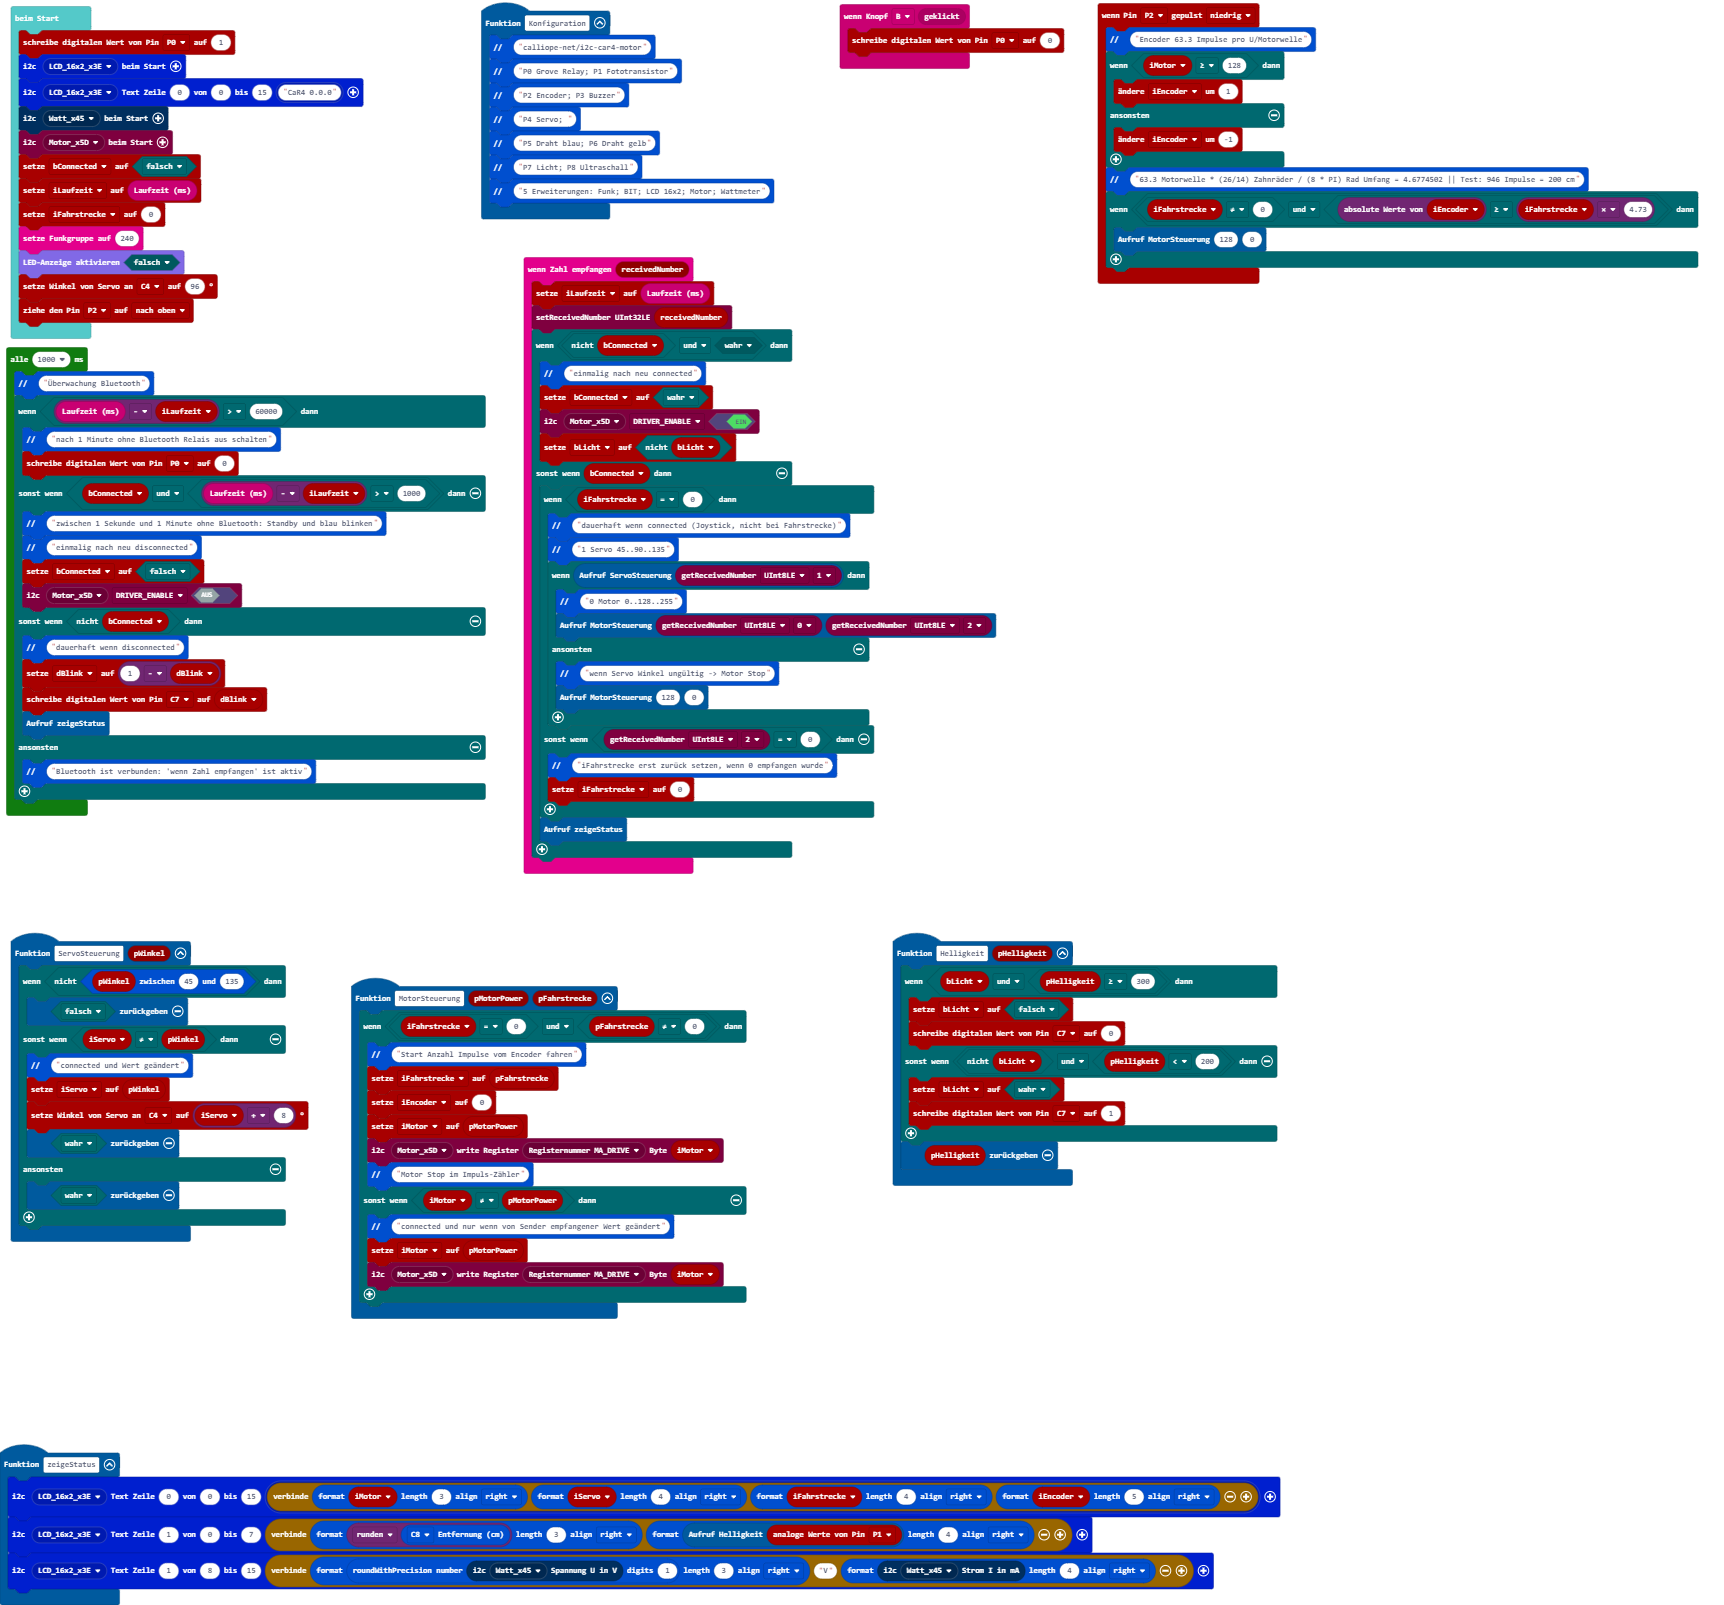
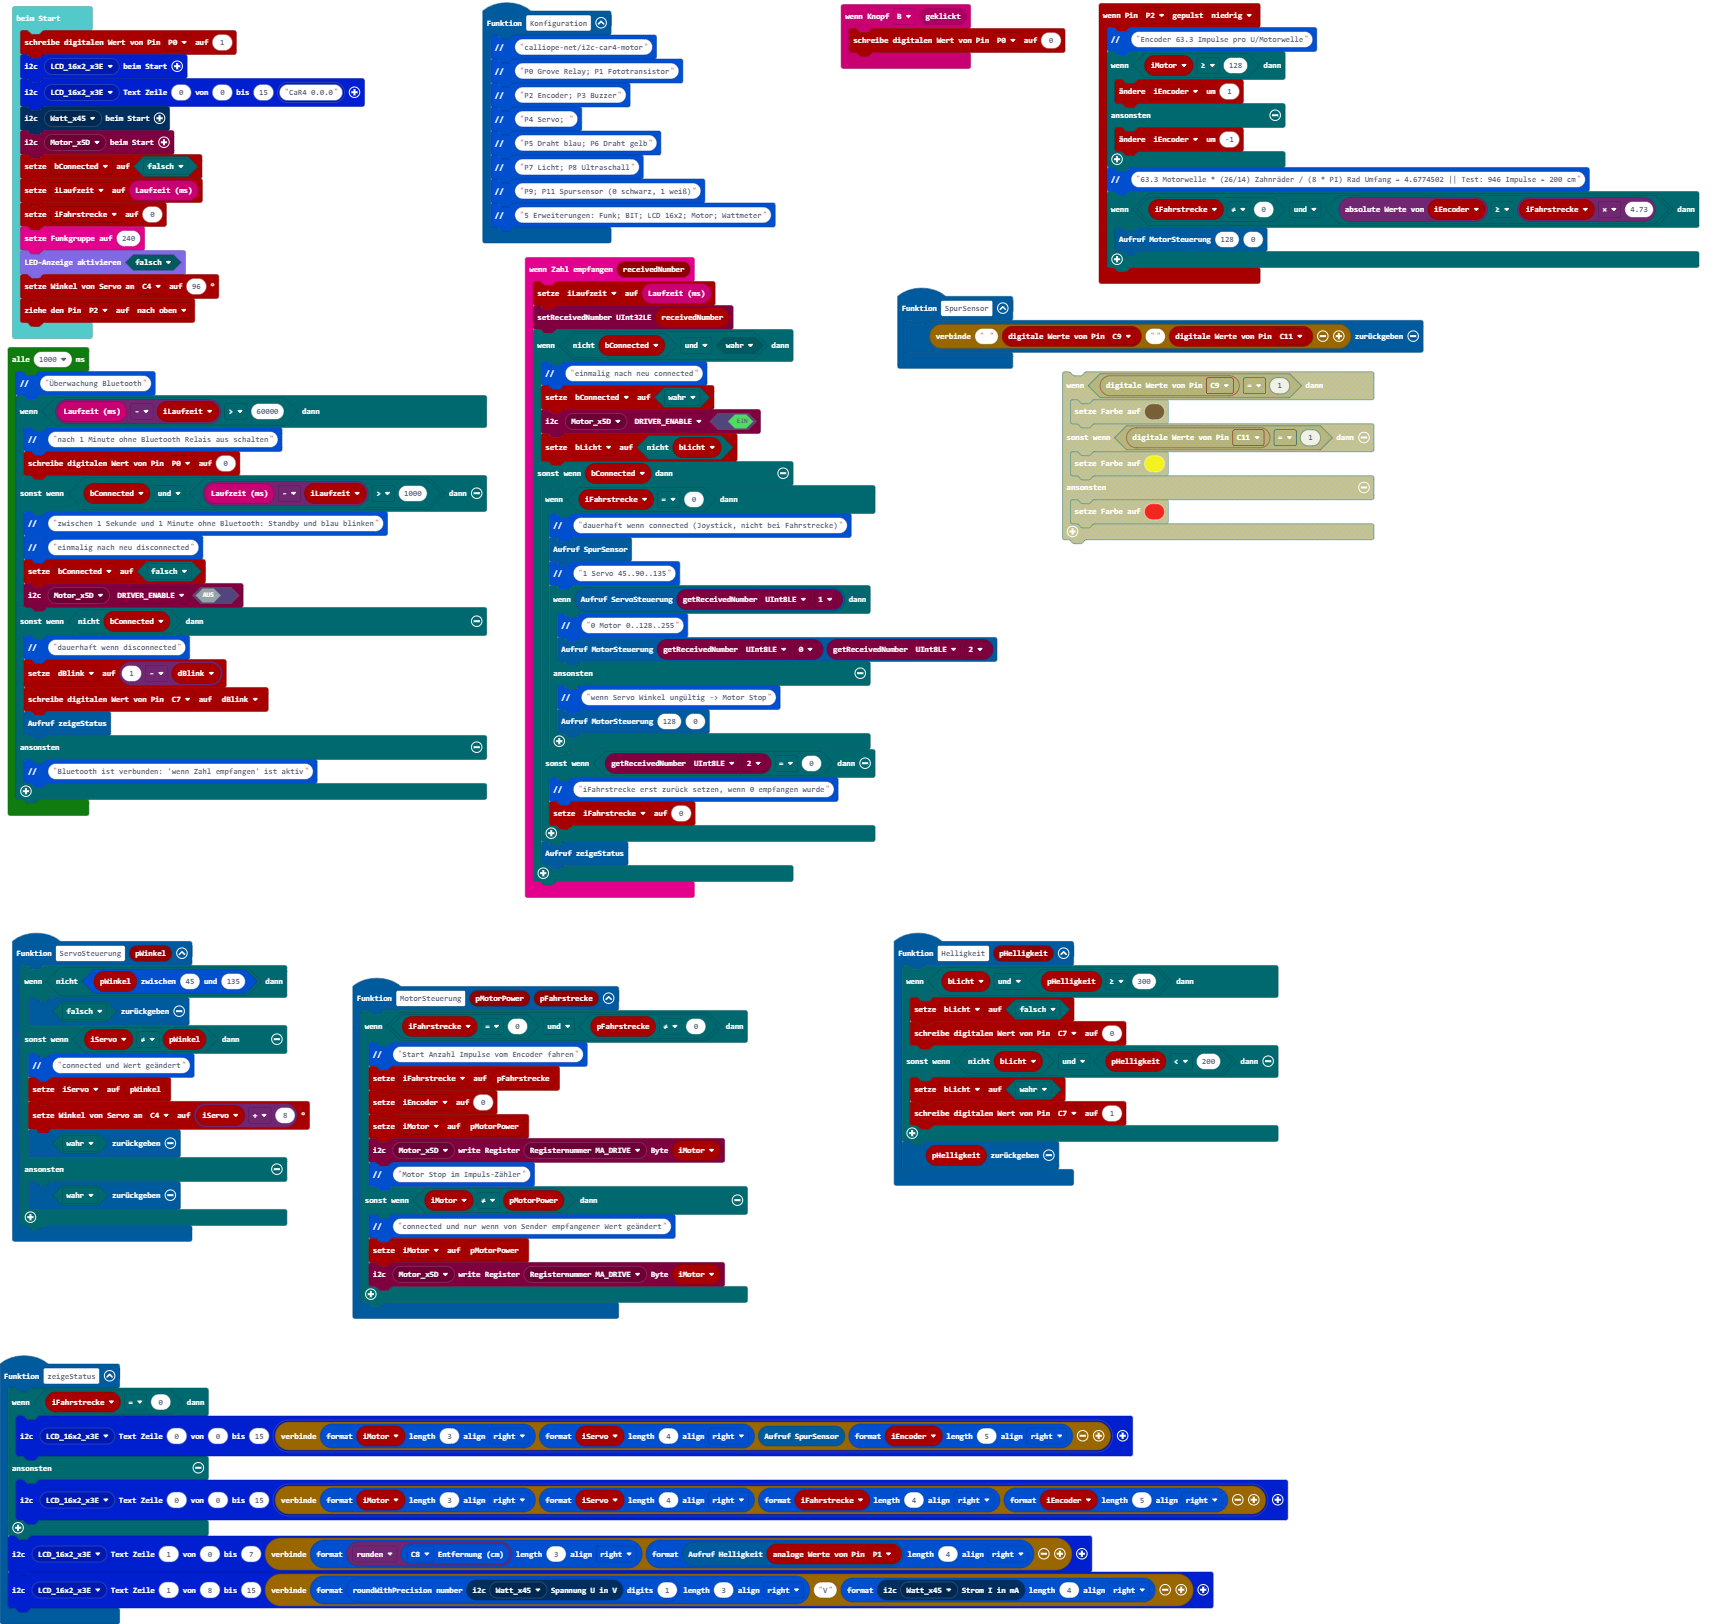
Aktualisiere main.blocks, main.ts

diff --git a/main.ts b/main.ts
@@ -9,6 +9,7 @@ radio.onReceivedNumber(function (receivedNumber) {
     } else if (bConnected) {
         if (iFahrstrecke == 0) {
             bit.comment("dauerhaft wenn connected (Joystick, nicht bei Fahrstrecke)")
+            SpurSensor()
             bit.comment("1 Servo 45..90..135")
             if (ServoSteuerung(qwiicmotor.getReceivedNumber(NumberFormat.UInt8LE, qwiicmotor.eOffset.z1))) {
                 bit.comment("0 Motor 0..128..255")
@@ -38,8 +39,15 @@ function MotorSteuerung (pMotorPower: number, pFahrstrecke: number) {
         qwiicmotor.writeRegister(qwiicmotor.qwiicmotor_eADDR(qwiicmotor.eADDR.Motor_x5D), qwiicmotor.qwiicmotor_eRegister(qwiicmotor.eRegister.MA_DRIVE), iMotor)
     }
 }
+function SpurSensor () {
+    return " " + pins.digitalReadPin(DigitalPin.C9) + "" + pins.digitalReadPin(DigitalPin.C11)
+}
 function zeigeStatus () {
-    lcd16x2rgb.writeText(lcd16x2rgb.lcd16x2_eADDR(lcd16x2rgb.eADDR_LCD.LCD_16x2_x3E), 0, 0, 15, lcd16x2rgb.lcd16x2_text("" + bit.formatText(iMotor, 3, bit.eAlign.right) + bit.formatText(iServo, 4, bit.eAlign.right) + bit.formatText(iFahrstrecke, 4, bit.eAlign.right) + bit.formatText(iEncoder, 5, bit.eAlign.right)))
+    if (iFahrstrecke == 0) {
+        lcd16x2rgb.writeText(lcd16x2rgb.lcd16x2_eADDR(lcd16x2rgb.eADDR_LCD.LCD_16x2_x3E), 0, 0, 15, lcd16x2rgb.lcd16x2_text("" + bit.formatText(iMotor, 3, bit.eAlign.right) + bit.formatText(iServo, 4, bit.eAlign.right) + SpurSensor() + bit.formatText(iEncoder, 5, bit.eAlign.right)))
+    } else {
+        lcd16x2rgb.writeText(lcd16x2rgb.lcd16x2_eADDR(lcd16x2rgb.eADDR_LCD.LCD_16x2_x3E), 0, 0, 15, lcd16x2rgb.lcd16x2_text("" + bit.formatText(iMotor, 3, bit.eAlign.right) + bit.formatText(iServo, 4, bit.eAlign.right) + bit.formatText(iFahrstrecke, 4, bit.eAlign.right) + bit.formatText(iEncoder, 5, bit.eAlign.right)))
+    }
     lcd16x2rgb.writeText(lcd16x2rgb.lcd16x2_eADDR(lcd16x2rgb.eADDR_LCD.LCD_16x2_x3E), 1, 0, 7, "" + bit.formatText(Math.round(bit.measureInCentimeters(DigitalPin.C8)), 3, bit.eAlign.right) + bit.formatText(Helligkeit(pins.analogReadPin(AnalogPin.P1)), 4, bit.eAlign.right))
     lcd16x2rgb.writeText(lcd16x2rgb.lcd16x2_eADDR(lcd16x2rgb.eADDR_LCD.LCD_16x2_x3E), 1, 8, 15, "" + bit.formatText(bit.roundWithPrecision(wattmeter.get_bus_voltage_V(wattmeter.wattmeter_eADDR(wattmeter.eADDR.Watt_x45)), 1), 3, bit.eAlign.right) + "V" + bit.formatText(wattmeter.get_current_mA(wattmeter.wattmeter_eADDR(wattmeter.eADDR.Watt_x45)), 4, bit.eAlign.right))
 }
@@ -75,6 +83,7 @@ function Konfiguration () {
     bit.comment("P4 Servo; ")
     bit.comment("P5 Draht blau; P6 Draht gelb")
     bit.comment("P7 Licht; P8 Ultraschall")
+    bit.comment("P9; P11 Spursensor (0 schwarz, 1 weiß)")
     bit.comment("5 Erweiterungen: Funk; BIT; LCD 16x2; Motor; Wattmeter")
 }
 function ServoSteuerung (pWinkel: number) {
